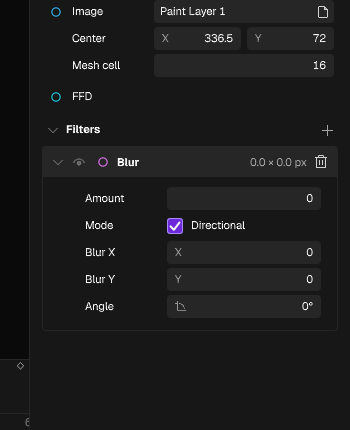
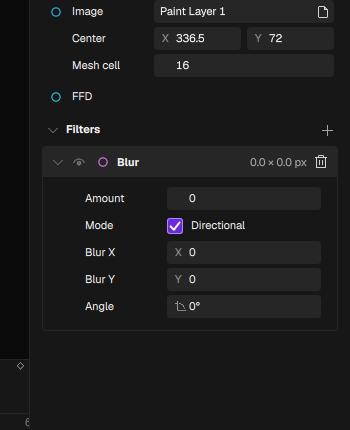
properties: keep value fields left-aligned and use QML default text
- stop right-aligning inspector values; reserve a fixed 22px prefix gutter
  instead, so X/Y, the angle glyph or no prefix all start the number at the
  same x while values remain left-aligned
- append the degree suffix to the value string; no separately aligned unit
- remove the CurveRendering overrides and textRenderType plumbing entirely;
  the inspector now uses QQuickWindow's default QML text rendering, as the
  Qt Text documentation describes, while keeping the LocaleParam font size
- refresh captures

diff --git a/src/gui/qml/ScrubSpinBox.qml b/src/gui/qml/ScrubSpinBox.qml
@@ -20,9 +20,6 @@ Item {
     // The inspector uses the app's 8pt Geist face, not the dialog controls'
     // fixed 11px. Callers that do not set this keep the dialog look.
     property font textFont: Qt.font({ pixelSize: 11 })
-    // The inspector uses CurveRendering so the same 8pt face rasterizes
-    // grayscale like the QWidget inspector; dialogs keep the default Qt path.
-    property int textRenderType: Text.QtRendering
     // The property inspector shows 357.5, not 357.500. Off by default: the
     // dialogs that asked for fixed decimals keep their exact display.
     property bool trimTrailingZeros: false
@@ -42,10 +39,12 @@ Item {
     property string prefix: ""
     property string prefixIcon: ""
     property string suffix: ""
-    // Preserve the dialogs' left-aligned numbers; the inspector opts into right
-    // alignment so an in-field X/Y or angle glyph cannot move the number.
-    property bool rightAlign: false
-    readonly property int contentLeft: prefixIcon !== "" ? 24 : (prefix !== "" ? 18 : 8)
+    // Every inspector field reserves the same small lead-in, so an X/Y glyph (or
+    // no glyph at all) cannot move the number horizontally. Dialog fields keep
+    // their compact 8px inset.
+    property bool reservePrefix: false
+    readonly property int contentLeft: reservePrefix ? 22
+                                              : (prefixIcon !== "" ? 24 : (prefix !== "" ? 18 : 8))
     // NOTE: the enabled state is Item.enabled itself, deliberately NOT redeclared:
     // a `property bool enabled` here would shadow the base property, the item would
     // never report disabled to the accessibility tree, and a probe could not tell a
@@ -118,10 +117,8 @@ Item {
         anchors.leftMargin: root.contentLeft
         anchors.rightMargin: 8
         verticalAlignment: Text.AlignVCenter
-        horizontalAlignment: root.rightAlign ? Text.AlignRight : Text.AlignLeft
         color: root.enabled ? theme.text : theme.textDisabled
         font: root.textFont
-        renderType: root.textRenderType
         text: root.fmt(root.value) + (root.showValue && root.suffix !== "" ? root.suffix : "")
         visible: !editInput.activeFocus && root.showValue
     }
@@ -135,7 +132,6 @@ Item {
         color: theme.textMuted
         opacity: root.enabled ? 0.9 : 0.45
         font: root.textFont
-        renderType: root.textRenderType
     }
     Image {
         visible: root.showValue && root.prefixIcon !== ""
@@ -245,9 +241,7 @@ Item {
         anchors.leftMargin: root.contentLeft
         anchors.rightMargin: 8
         verticalAlignment: Text.AlignVCenter
-        horizontalAlignment: root.rightAlign ? Text.AlignRight : Text.AlignLeft
         color: theme.text
-        renderType: root.textRenderType
         // F33: the selection is the theme's selection pair, like AeTextField.
         selectionColor: theme.selection
         selectedTextColor: theme.selectionText

diff --git a/src/gui/qml/InspectorFilterStack.qml b/src/gui/qml/InspectorFilterStack.qml
@@ -86,7 +86,6 @@ Item {
             font.family: uiFont.family
             font.pointSize: uiFont.pointSize
             font.bold: true
-            renderType: Text.CurveRendering
             Accessible.role: Accessible.StaticText
             Accessible.name: text
         }
@@ -169,8 +168,7 @@ Item {
                 text: inspector.filters.noFiltersText
                 color: theme.textMuted
                 font: uiFont
-                renderType: Text.CurveRendering
-            }
+                }
         }
 
         Rectangle {
@@ -216,8 +214,7 @@ Item {
                 implicitHeight: 28
                 leadingIcon: "magnifying-glass"
                 textFont: uiFont
-                textRenderType: Text.CurveRendering
-                placeholderText: inspector.filters.searchLabel
+                        placeholderText: inspector.filters.searchLabel
                 accessibleName: inspector.filters.searchLabel
                 Keys.onReturnPressed: root.addFirstMatching()
             }
@@ -260,8 +257,7 @@ Item {
                                                              : catalogItem.added ? "  ·  " + inspector.filters.addedLabel : "")
                             color: theme.text
                             font: uiFont
-                            renderType: Text.CurveRendering
-                            elide: Text.ElideRight
+                                            elide: Text.ElideRight
                         }
                         Text {
                             width: parent.width
@@ -269,8 +265,7 @@ Item {
                             text: modelData.description
                             color: theme.textMuted
                             font: uiFont
-                            renderType: Text.CurveRendering
-                            elide: Text.ElideRight
+                                            elide: Text.ElideRight
                         }
                     }
                     MouseArea {
@@ -299,8 +294,7 @@ Item {
                 text: inspector.filters.noMatchLabel
                 color: theme.textMuted
                 font: uiFont
-                renderType: Text.CurveRendering
-                leftPadding: 4
+                    leftPadding: 4
                 topPadding: 4
             }
         }

diff --git a/src/gui/qml/InspectorFilterCard.qml b/src/gui/qml/InspectorFilterCard.qml
@@ -171,8 +171,7 @@ Item {
                 font.family: uiFont.family
                 font.pointSize: uiFont.pointSize
                 font.bold: true
-                renderType: Text.CurveRendering
-                elide: Text.ElideRight
+                    elide: Text.ElideRight
             }
 
             Text {
@@ -180,8 +179,7 @@ Item {
                 text: filterRow.summary
                 color: theme.textMuted
                 font: uiFont
-                renderType: Text.CurveRendering
-                horizontalAlignment: Text.AlignRight
+                    horizontalAlignment: Text.AlignRight
                 elide: Text.ElideRight
             }
 
@@ -279,8 +277,7 @@ Item {
                     Layout.preferredHeight: 23
                     text: filterRow.absoluteLabel
                     textFont: uiFont
-                    textRenderType: Text.CurveRendering
-                    checked: filterRow.absolute
+                                checked: filterRow.absolute
                     onToggled: filterRow.setAbsolute(checked)
                 }
             }
@@ -308,8 +305,7 @@ Item {
                     Layout.preferredHeight: 23
                     text: filterRow.directionalLabel
                     textFont: uiFont
-                    textRenderType: Text.CurveRendering
-                    checked: filterRow.directional
+                                checked: filterRow.directional
                     onToggled: filterRow.setDirectional(checked)
                 }
             }

diff --git a/src/gui/qml/PropertiesPanel.qml b/src/gui/qml/PropertiesPanel.qml
@@ -48,8 +48,7 @@ Rectangle {
                     options: inspector.blendOptions
                     index: inspector.blendIndex
                     textFont: uiFont
-                    textRenderType: Text.CurveRendering
-                    enabled: inspector.blendEnabled
+                                enabled: inspector.blendEnabled
                     onActivated: (index) => inspector.setBlendIndex(index)
                 }
             }
@@ -62,8 +61,7 @@ Rectangle {
                     Layout.preferredHeight: 23
                     checked: inspector.clipped
                     textFont: uiFont
-                    textRenderType: Text.CurveRendering
-                    enabled: inspector.clippedEnabled
+                                enabled: inspector.clippedEnabled
                     Accessible.name: inspector.clippedLabel
                     onToggled: inspector.setClipped(checked)
                 }
@@ -141,8 +139,7 @@ Rectangle {
                     Layout.preferredHeight: 23
                     text: inspector.smoothLabel
                     textFont: uiFont
-                    textRenderType: Text.CurveRendering
-                    checked: inspector.move.smooth
+                                checked: inspector.move.smooth
                     onToggled: inspector.move.setSmooth(checked)
                     ToolTip.visible: hovered
                     ToolTip.delay: 500

diff --git a/src/gui/qml/AeComboBox.qml b/src/gui/qml/AeComboBox.qml
@@ -62,7 +62,6 @@ ComboBox {
     property Item overlay: null
     // Dialog controls keep 12px; the inspector passes the app font.
     property font textFont: Qt.font({ pixelSize: 12 })
-    property int textRenderType: Text.QtRendering
 
     readonly property string value: (index >= 0 && index < options.length)
                                     ? String(options[index].value) : ""
@@ -162,8 +161,7 @@ ComboBox {
             text: root.text
             color: root.enabled ? theme.text : theme.textDisabled
             font: root.textFont
-            renderType: root.textRenderType
-            elide: Text.ElideRight
+                elide: Text.ElideRight
         }
         Image {
             id: caret
@@ -297,8 +295,7 @@ ComboBox {
                     text: modelData.label
                     color: theme.text
                     font: root.textFont
-                    renderType: root.textRenderType
-                    elide: Text.ElideRight
+                                elide: Text.ElideRight
                 }
                 Image {
                     id: tick

diff --git a/src/gui/qml/AeTextField.qml b/src/gui/qml/AeTextField.qml
@@ -35,7 +35,6 @@ TextField {
     property bool clearButton: false
     // Dialog controls keep 12px; the inspector passes the app font.
     property font textFont: Qt.font({ pixelSize: 12 })
-    property int textRenderType: Text.QtRendering
     // Forward the VERTICAL tree-navigation keys instead of letting the editor keep
     // them, and announce each as navigate(key). A chooser you have to Tab out of is
     // a chooser you fight: the search field keeps the text cursor while Up/Down move
@@ -65,7 +64,6 @@ TextField {
 
     color: root.enabled ? theme.text : theme.textDisabled
     font: root.textFont
-    renderType: root.textRenderType
     placeholderTextColor: theme.textMutedDim
     selectionColor: theme.selection
     selectedTextColor: theme.selectionText

diff --git a/src/gui/qml/AeCheckBox.qml b/src/gui/qml/AeCheckBox.qml
@@ -70,7 +70,6 @@ CheckBox {
     readonly property int boxSize: 16
     // Dialog controls keep 12px; the inspector passes the app font (8pt Geist).
     property font textFont: Qt.font({ pixelSize: 12 })
-    property int textRenderType: Text.QtRendering
 
     implicitHeight: 24
     implicitWidth: root.boxSize + (root.text === "" ? 0 : 8 + label.implicitWidth)
@@ -142,7 +141,6 @@ CheckBox {
         text: root.text
         color: root.enabled ? theme.text : theme.textDisabled
         font: root.textFont
-        renderType: root.textRenderType
     }
 
     HoverHandler {

diff --git a/src/gui/qml/InspectorNumberField.qml b/src/gui/qml/InspectorNumberField.qml
@@ -55,9 +55,8 @@ Item {
         step: root.step
         decimals: root.decimals
         trimTrailingZeros: true
-        rightAlign: true
+        reservePrefix: true
         textFont: uiFont
-        textRenderType: Text.CurveRendering
         prefix: root.prefix
         prefixIcon: root.prefixIcon
         suffix: root.suffix

diff --git a/src/gui/qml/InspectorAssetField.qml b/src/gui/qml/InspectorAssetField.qml
@@ -32,7 +32,6 @@ Rectangle {
             text: root.name !== "" ? root.name : qsTr("None")
             color: root.name !== "" && root.enabled ? theme.text : theme.textMuted
             font: uiFont
-            renderType: Text.CurveRendering
             elide: Text.ElideMiddle
         }
         Image {

diff --git a/src/gui/qml/InspectorRow.qml b/src/gui/qml/InspectorRow.qml
@@ -47,7 +47,6 @@ Item {
         text: root.label
         color: theme.text
         font: uiFont
-        renderType: Text.CurveRendering
         elide: Text.ElideRight
         Accessible.role: Accessible.StaticText
         Accessible.name: root.label

diff --git a/AGENTS.md b/AGENTS.md
@@ -3784,24 +3784,24 @@ header and the body are rounded: the body has a `radius` and a small base-colour
 its top corners. Keeping the body square was what made the bottom corners of the outline disappear -
 the square child covered them. Do not "fix" this by dropping the border again.
 
-**Per-item text rendering.** The Qt Text documentation makes `renderType` the per-item override:
-`NativeRendering` is the platform rasterizer, `QtRendering` the default distance-field path, and
-`CurveRendering` the hardware curve rasterizer offered when the default gives poor visual results.
-At the dock's 8pt face the default path produced colored subpixel fringes (a label crop measured 141
-pixels with channel spread); `CurveRendering` measured 0 and matches the QWidget inspector's
-grayscale. Every inspector Text/TextInput uses `Text.CurveRendering` through the controls'
-`textRenderType` property; dialogs keep the Qt default. Do not use the global
-`QQuickWindow::setTextRenderType` for this - it changes every QML scene and only affects elements
-created afterwards.
+**Text rendering is the QML default.** The Qt Text documentation makes `renderType` a per-item
+override: `NativeRendering` is the platform rasterizer, `QtRendering` is the default distance-field
+path, and `CurveRendering` is the hardware curve rasterizer offered only when the default gives poor
+visual results. The inspector therefore sets NO renderType: it uses `QQuickWindow::textRenderType()`
+like every other QML scene here. At 8pt this platform renders with colored subpixel AA; that is the
+default, not a bug. Do not force `CurveRendering`, `NativeRendering`, or the global
+`QQuickWindow::setTextRenderType` to chase the QWidget inspector's grayscale - that is a deliberate
+platform/QML choice, and the global setter changes every QML scene. The only font override is the
+family and point size from `LocaleParam` (`uiFont`), which is what makes 8pt match the dock.
 
 **In-field labels and units.** `ScrubSpinBox` draws a muted `prefix` and a themed `prefixIcon` at the
 left, and appends the `suffix` to the displayed numeric string (`0` + `°`), so a unit is part of the
-value rather than a separately right-aligned label. The inspector sets `rightAlign: true`, so the
-numeric right edge is identical in every field whether or not it has an X/Y prefix; dialogs keep
-their left alignment. The inspector uses `X`/`Y` for axis pairs and the official Phosphor `angle`
-glyph (regular, `icons/ph/angle.svg`) plus `°` for Rotation and Blur angle. Prefix text and the glyph
-use the SAME `theme.textMuted` token and the same opacity; the glyph's role is `Muted`. The degree
-suffix is announced as "Degrees"; no other unit was invented.
+value rather than a separately right-aligned label. The inspector sets `reservePrefix: true`: every
+field reserves the same 22px lead-in, so a value starts at the same x whether it has X/Y, the angle
+glyph, or no prefix. Values themselves stay LEFT-aligned. The inspector uses `X`/`Y` for axis pairs
+and the official Phosphor `angle` glyph (regular, `icons/ph/angle.svg`) plus `°` for Rotation and
+Blur angle. Prefix text and the glyph use the SAME `theme.textMuted` token and the same opacity; the
+glyph's role is `Muted`. The degree suffix is announced as "Degrees"; no other unit was invented.
 
 **Verified:** `scripts/run_suites.sh Debug` = 57 pass / 0 fail on the tree that removes the widget
 classes; `inspector_view_model` pins model-2 writes, key toggles, filter add/reorder/enable/remove,
